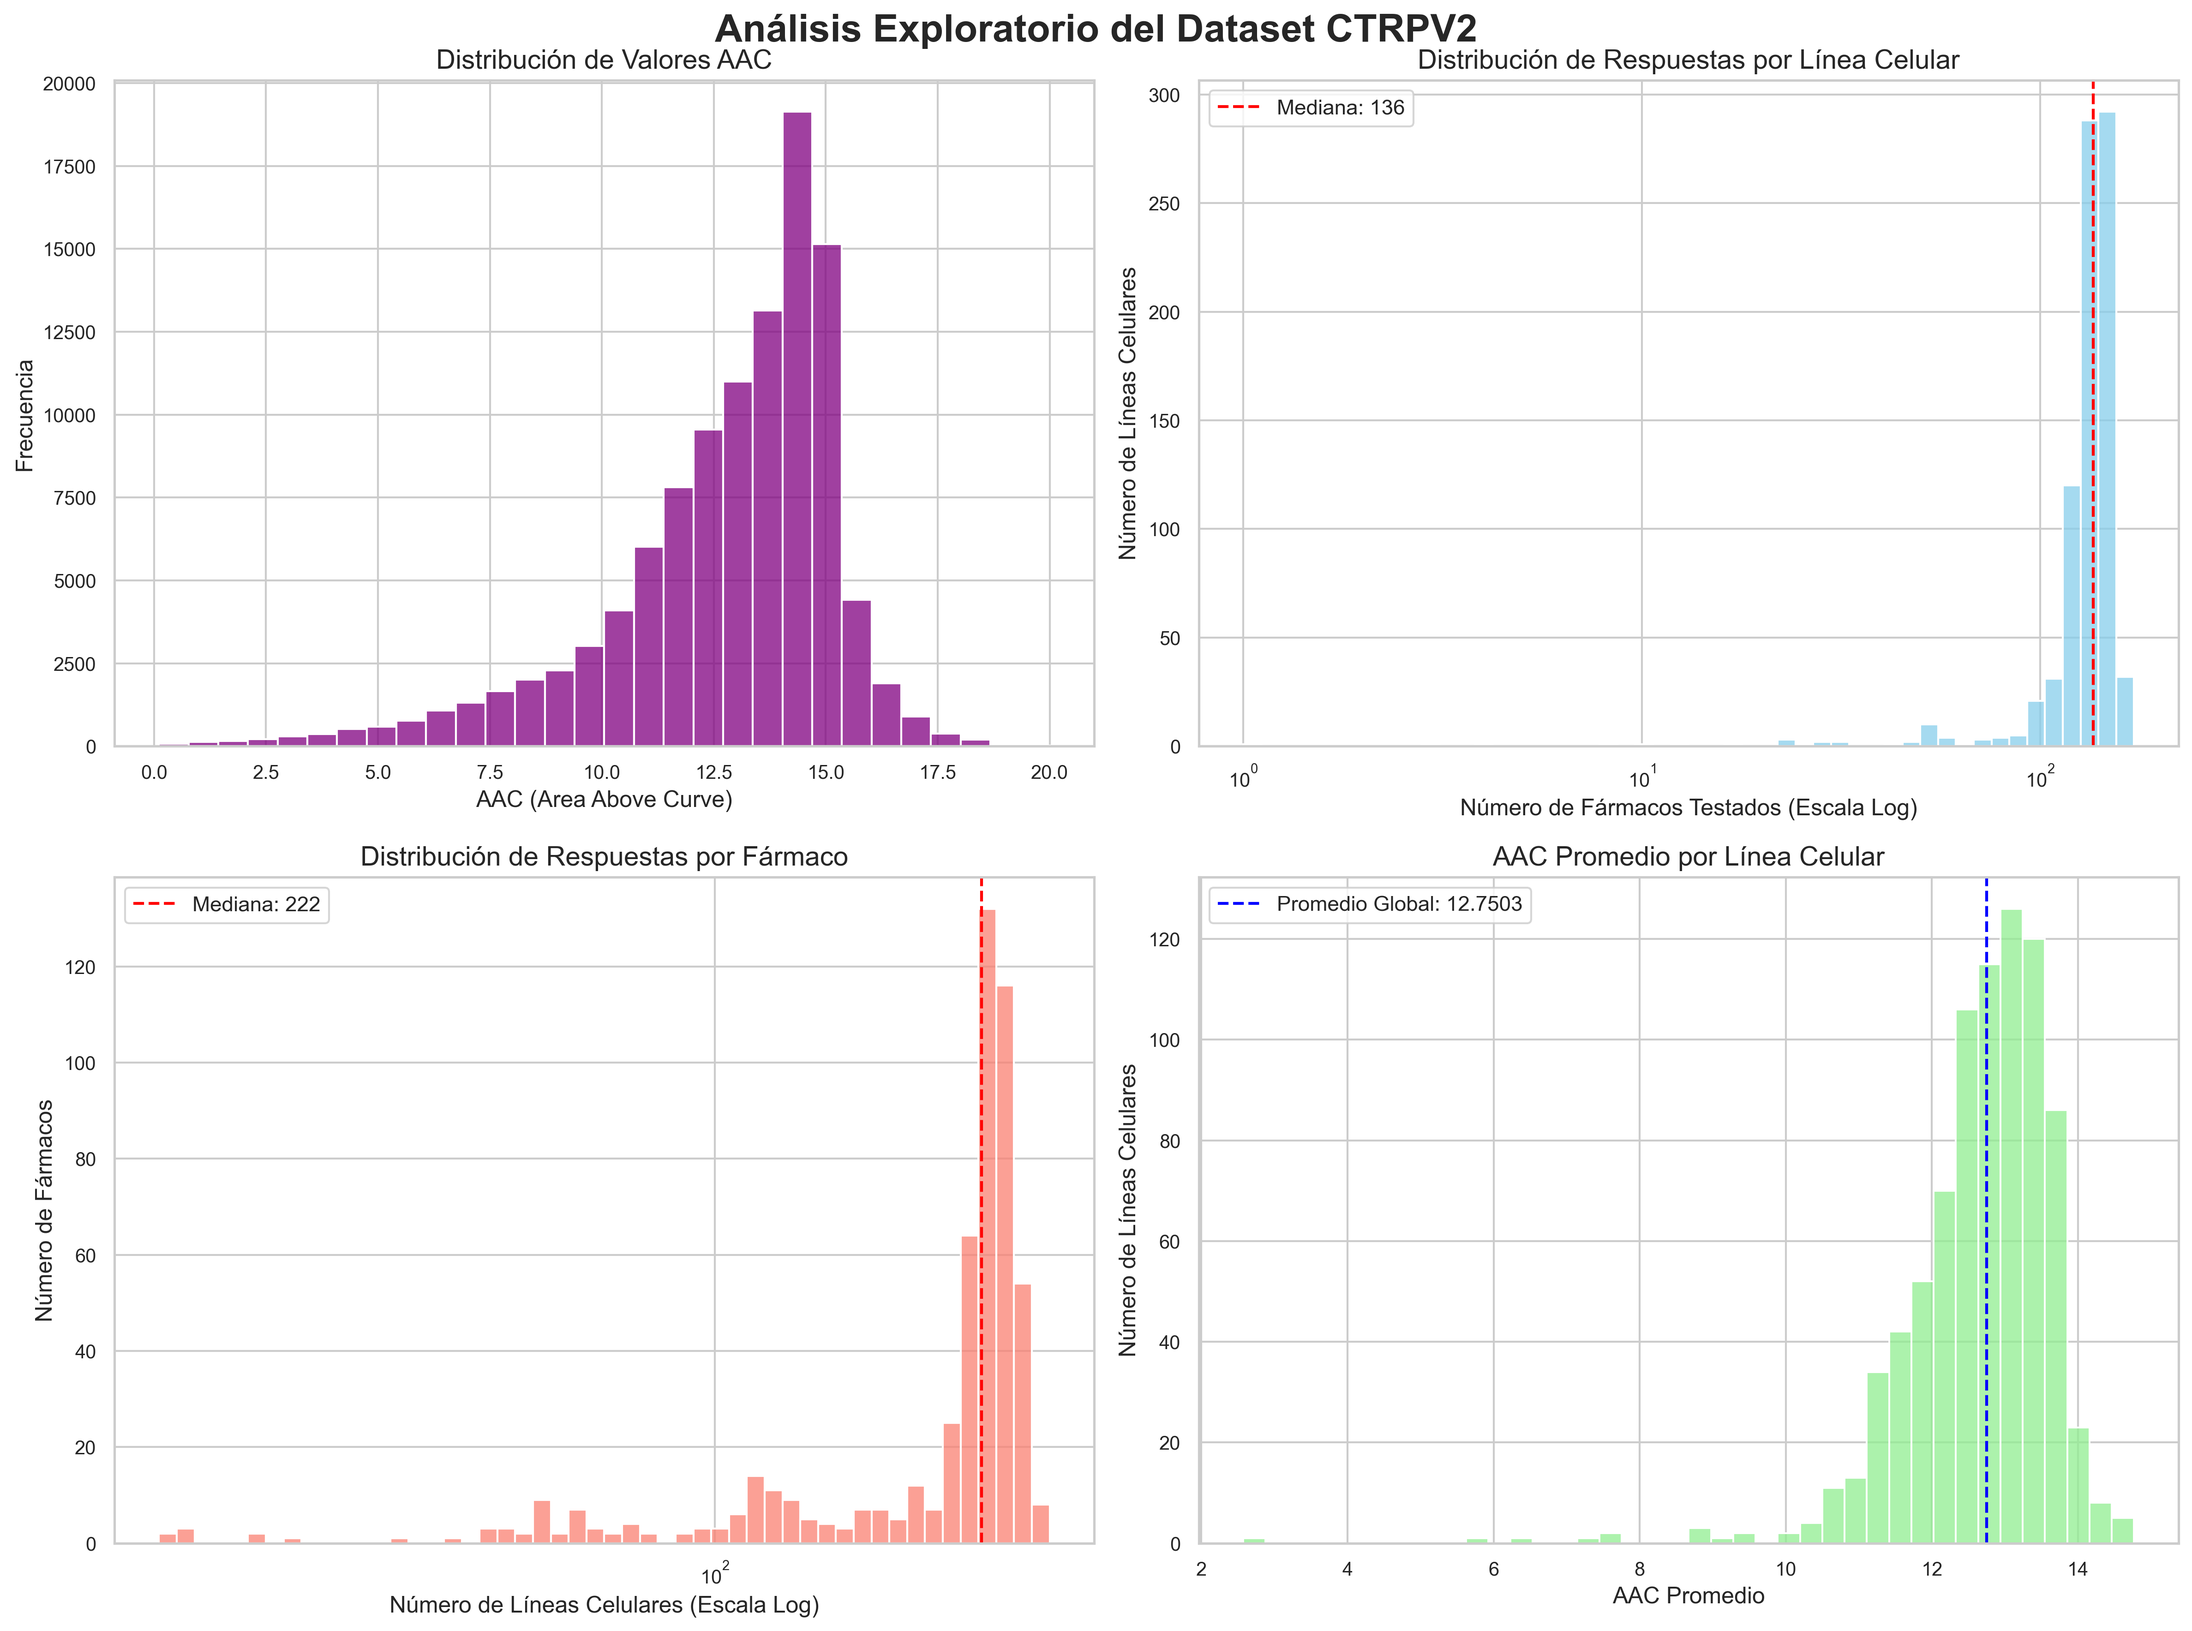
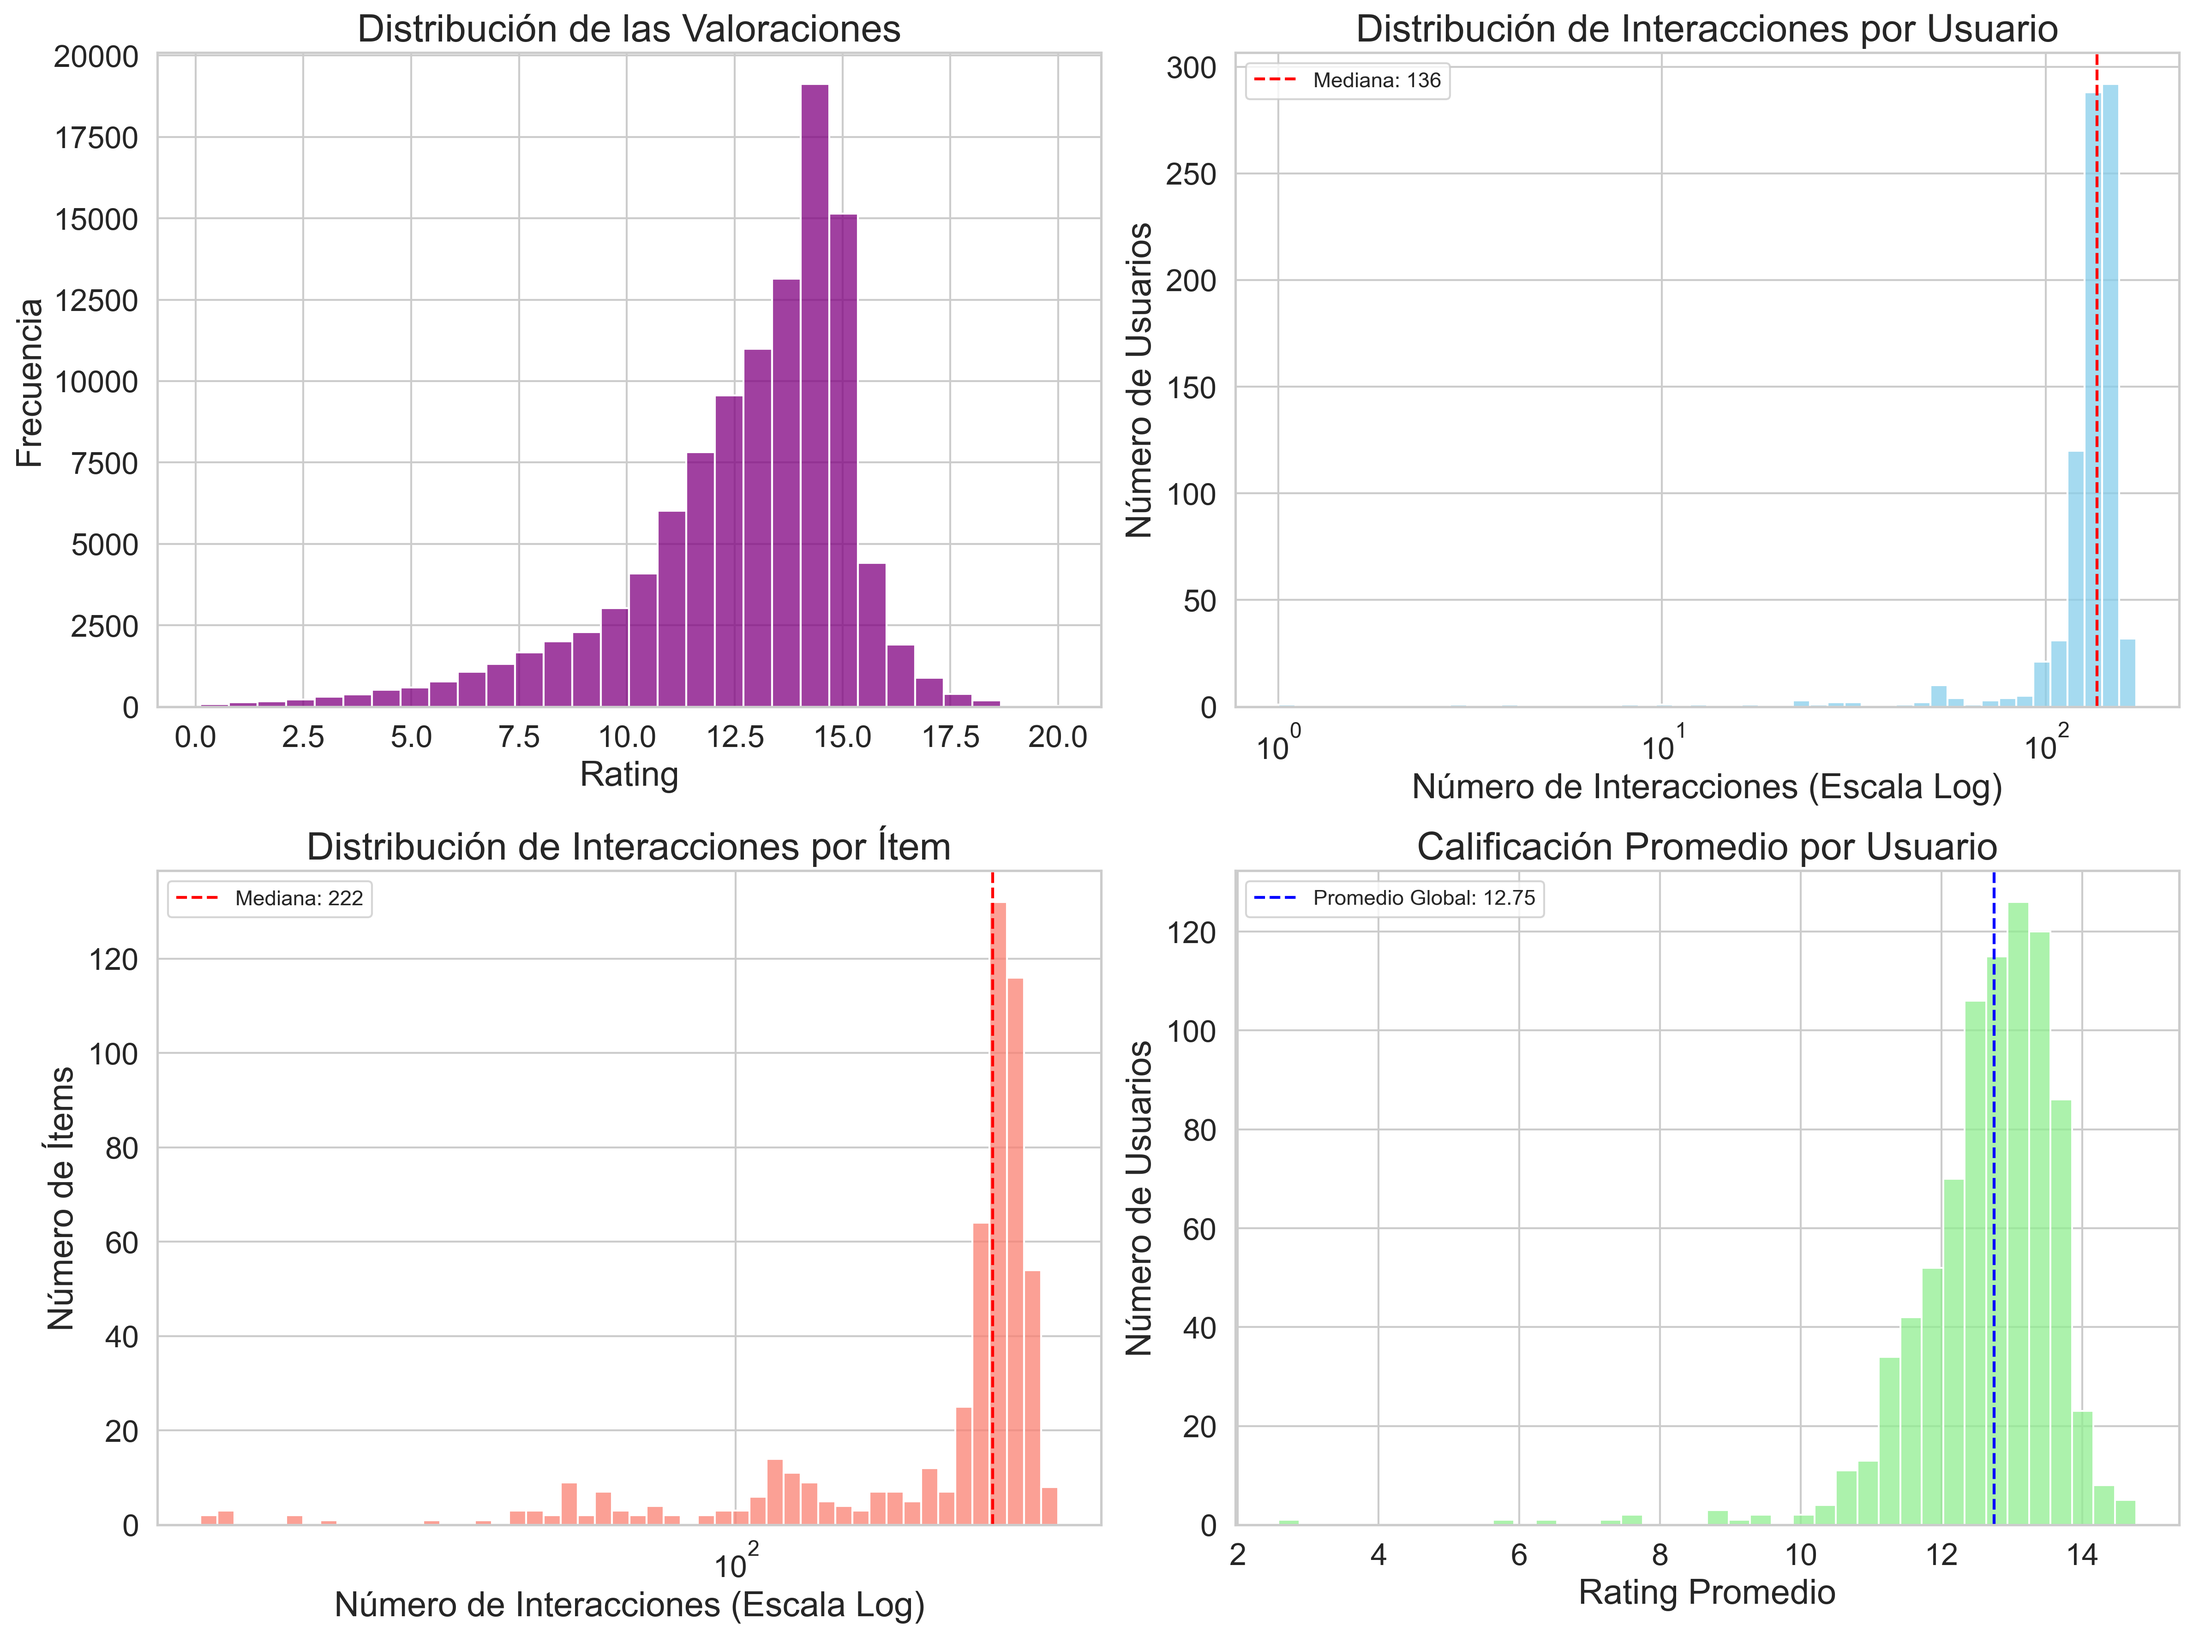
Actualización TFG

diff --git a/Visualizacion_Datos/collage.py b/Visualizacion_Datos/collage.py
@@ -2,7 +2,9 @@ import pandas as pd
 import matplotlib.pyplot as plt
 import seaborn as sns
 
+
 # --- 1. Carga y Preparación de Datos ---
+
 # Leer el archivo con delimitador :: y sin encabezados
 try:
     df = pd.read_csv("ratings.csv", 
@@ -21,7 +23,9 @@ df.rename(columns={
     'item_id': 'itemId'
 }, inplace=True)
 
+
 # --- 2. Estadísticas Generales ---
+
 n_users = df['userId'].nunique()
 n_items = df['itemId'].nunique()
 n_ratings = df.shape[0]
@@ -40,22 +44,22 @@ print(f"Rating máximo: {max_rating:.2f}")
 print(f"Densidad de la matriz: {density:.4f}% (muy dispersa, como es habitual)")
 print("-" * 50)
 
+
 # --- 3. Visualizaciones en Collage ---
 
 # Configuración de estilo visual para todas las gráficas
 sns.set_theme(style="whitegrid", palette="pastel")
 plt.rcParams.update({
-    'axes.titlesize': 14,
-    'axes.labelsize': 12,
-    'xtick.labelsize': 10,
-    'ytick.labelsize': 10,
+    'axes.titlesize': 20,      
+    'axes.labelsize': 18,     
+    'xtick.labelsize': 16,    
+    'ytick.labelsize': 16,     
     'figure.titlesize': 18,
     'figure.titleweight': 'bold'
 })
 
 # Crear figura con subplots (2x2)
 fig, axes = plt.subplots(2, 2, figsize=(16, 12))
-fig.suptitle('Análisis Exploratorio del Dataset de Ratings', fontsize=20, fontweight='bold', y=0.98)
 
 # Gráfica 1: Distribución de las Valoraciones (Ratings)
 sns.histplot(data=df, x='rating', bins=30, color='purple', ax=axes[0, 0])
@@ -98,8 +102,7 @@ axes[1, 1].legend()
 
 # Ajustar espaciado entre subplots
 plt.tight_layout()
-plt.subplots_adjust(top=0.94)
 
 # Guardar el collage
-plt.savefig('ratings_analisis_exploratorio.png', dpi=300, bbox_inches='tight')
+plt.savefig('movielens_analisis_exploratorio.png', dpi=300, bbox_inches='tight')
 plt.show()

diff --git a/Visualizacion_Resultados/R_Historial/graficas_historial.py b/Visualizacion_Resultados/R_Historial/graficas_historial.py
@@ -6,13 +6,9 @@ import os
 from pathlib import Path
 import re
 
-# Configurar el estilo para gráficos profesionales
+# Configurar el estilo 
 plt.style.use('default')
 sns.set_palette("husl")
-
-# =============================================================================
-# CONFIGURACIÓN - Modifica esta sección según tus necesidades
-# =============================================================================
 
 # Opción 1: Lista específica de archivos con nombres personalizados
 files_config = [

diff --git a/Visualizacion_Resultados/R_Completo/graficas_completo.py b/Visualizacion_Resultados/R_Completo/graficas_completo.py
@@ -6,13 +6,9 @@ import os
 from pathlib import Path
 import re
 
-# Configurar el estilo para gráficos profesionales
+# Configurar el estilo
 plt.style.use('default')
 sns.set_palette("husl")
-
-# =============================================================================
-# CONFIGURACIÓN - Modifica esta sección según tus necesidades
-# =============================================================================
 
 # Opción 1: Lista específica de archivos con nombres personalizados
 files_config = [

diff --git a/Visualizacion_Resultados/R_Datasets/graficas_completo.py b/Visualizacion_Resultados/R_Datasets/graficas_completo.py
@@ -6,13 +6,9 @@ import os
 from pathlib import Path
 import re
 
-# Configurar el estilo para gráficos profesionales
+# Configurar el estilo
 plt.style.use('default')
 sns.set_palette("husl")
-
-# =============================================================================
-# CONFIGURACIÓN - Modifica esta sección según tus necesidades
-# =============================================================================
 
 # Opción 1: Lista específica de archivos con nombres personalizados
 files_config = [

diff --git a/Visualizacion_Resultados/R_Topk/graficas_topk.py b/Visualizacion_Resultados/R_Topk/graficas_topk.py
@@ -6,13 +6,9 @@ import os
 from pathlib import Path
 import re
 
-# Configurar el estilo para gráficos profesionales
+# Configurar el estilo
 plt.style.use('default')
 sns.set_palette("husl")
-
-# =============================================================================
-# CONFIGURACIÓN - Modifica esta sección según tus necesidades
-# =============================================================================
 
 # Lista específica de archivos con nombres personalizados
 files_config = [
